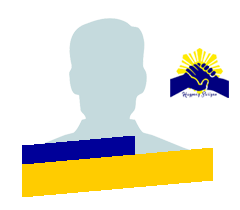
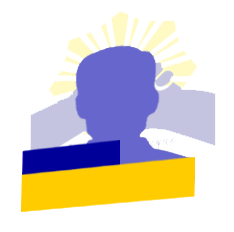
change image

diff --git a/resources/views/candidates/ayekPimentel.blade.php b/resources/views/candidates/ayekPimentel.blade.php
@@ -6,7 +6,7 @@
 @section('content')
 <div class="section candidate-holder">
 	<div class="candidate">
-		<img src="{{ asset('assets/images/ayek-plataporma-solo2.png') }}" alt="" title="">
+		<img src="{{ asset('assets/images/ayek-plataporma-solo.png') }}" alt="" title="">
 	</div>
 </div>
 
